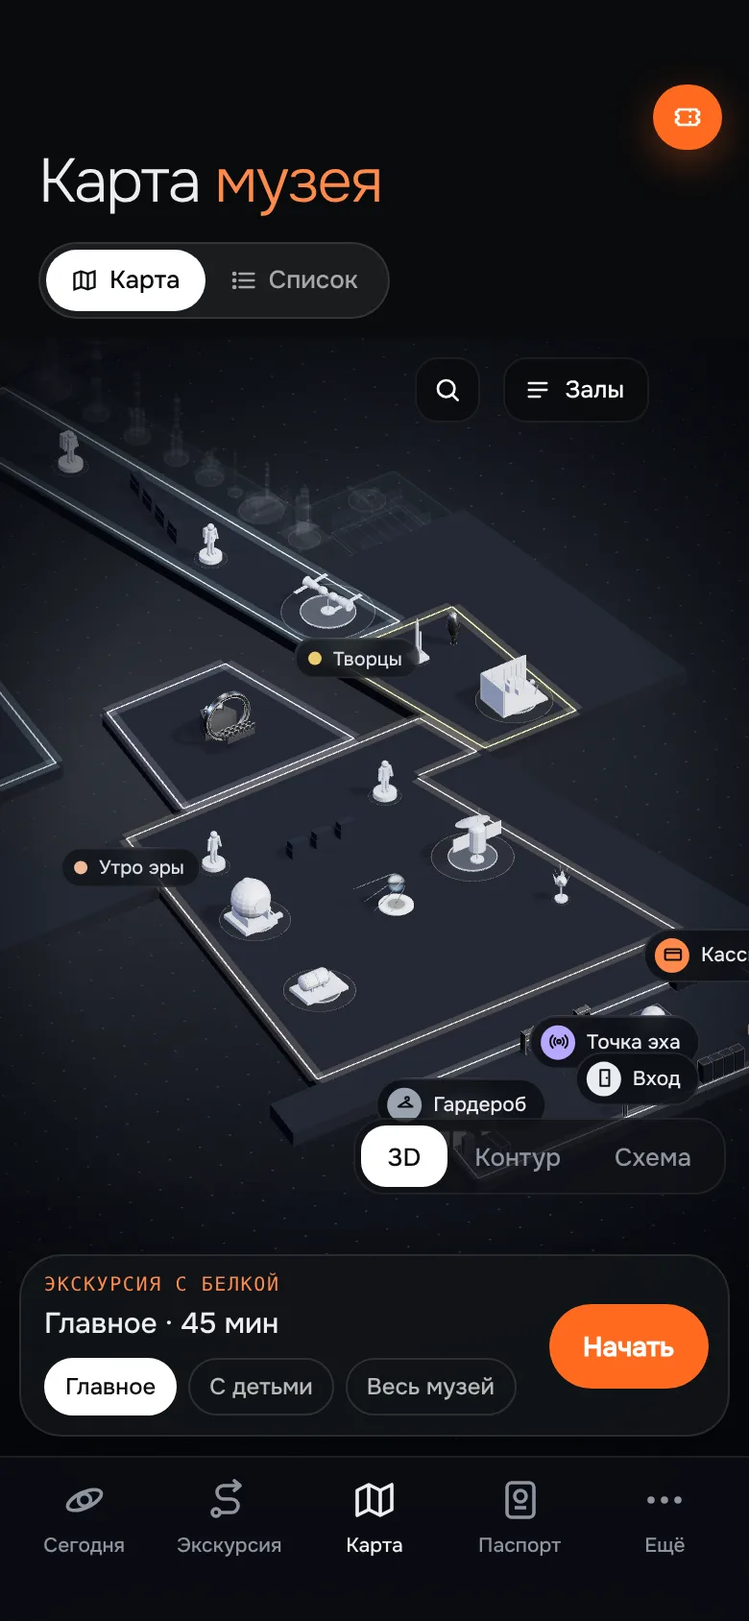
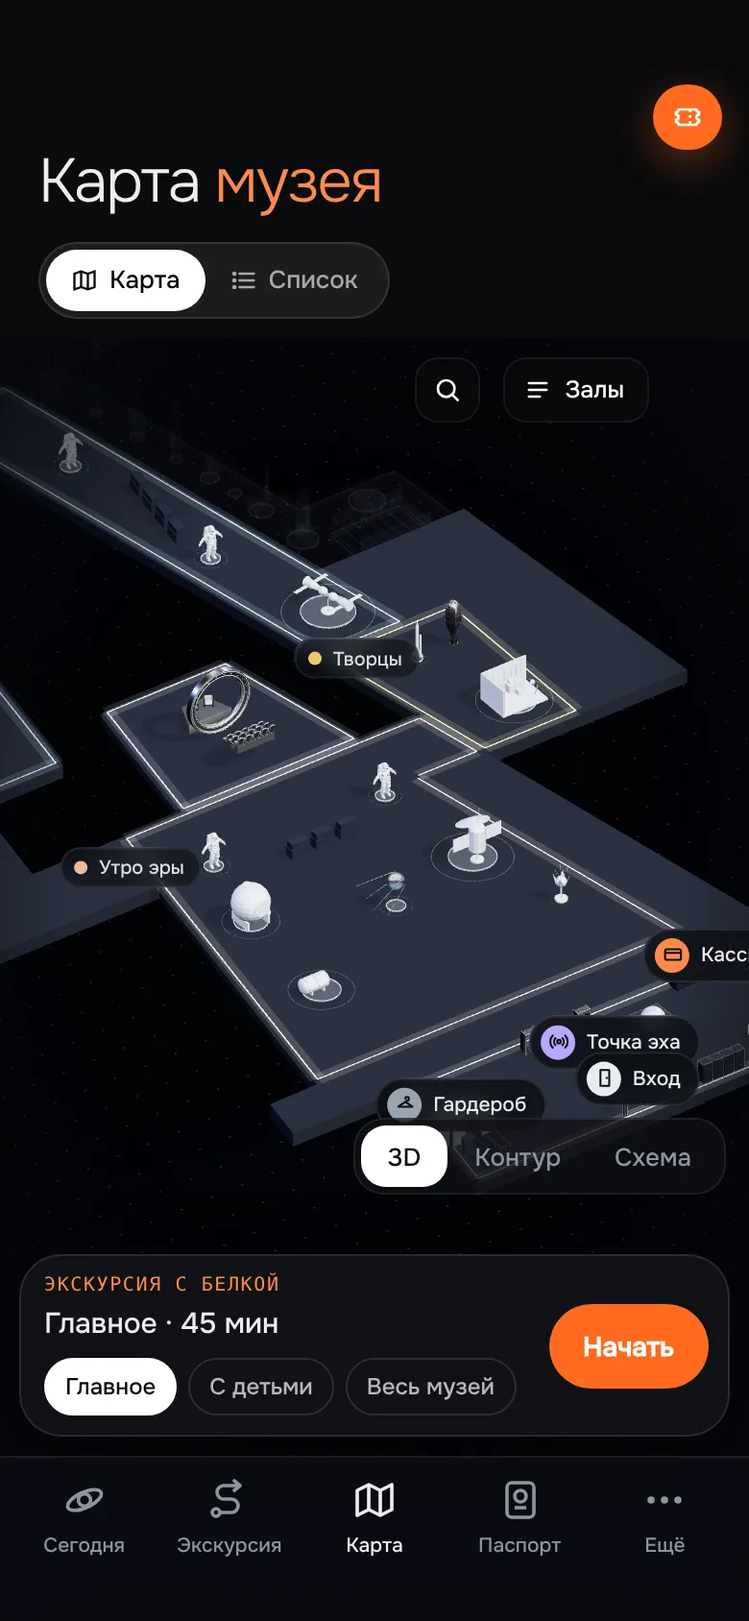
app v150: объёмная графитовая карта, чёрная пустота вокруг, голограмма во всех залах (и кинозал), без прямоугольных плит, аккуратная подставка Спутника, подпись кафе «Взлёт»; deck: слайд «От чертежа — к космосу», обновлены версии карты
Claude-Session: https://claude.ai/code/session_01YJBZo4ctwu5nXZDRpFLjgU

diff --git a/kosmo-museum/deck/app/index.html b/kosmo-museum/deck/app/index.html
@@ -9473,9 +9473,15 @@ if ($('#askCard')){ const mini = (window.mountDog3D || window.mountDog2D)($('#as
       const holder = new THREE.Group(); holder.add(mk(gpos, a * .18), mk(pos, a)); holder.userData.floorOf = n; holder.userData.top = top; glowHolders.push(holder); }); }
     // подставка под экспонатом: светящееся кольцо цвета зала
     const ringG = new THREE.RingGeometry(.986, 1, 128).rotateX(-Math.PI / 2) /* v116: тонкое кольцо вместо толстого */, discG = new THREE.CircleGeometry(1, 48).rotateX(-Math.PI / 2);
-    function pad(n, root){ const b = new THREE.Box3().setFromObject(n), c = b.getCenter(new THREE.Vector3()); let r0 = Math.max(b.max.x - b.min.x, b.max.z - b.min.z) * .55 + .5; const d = MEX.get(+n.name.slice(3)) || {}; const nid = +n.name.slice(3);
+    /* v150: прямоугольные плиты и диски-«блямбы» под экспонатами прячем на карте (в истории модель целиком) и опускаем экспонат на подставку */
+    const vBox = n => { const bb = new THREE.Box3(); n.updateMatrixWorld(true); n.traverse(o => { if (o.isMesh && o.visible && !o.userData.cSkip){ let v = true, p = o; while (p && p !== n){ if (!p.visible) v = false; p = p.parent; } if (v) bb.expandByObject(o); } }); return bb; };
+    function noBase(n){ const id = +n.name.slice(3); if ([13, 14, 19, 47, 49].includes(id)) return; const nb = vBox(n); if (nb.isEmpty()) return; const ns = nb.getSize(new THREE.Vector3()); let hit = 0;
+      n.traverse(o => { if (!o.isMesh || !o.visible || o.userData.cSkip) return; const bb = new THREE.Box3().setFromObject(o), z = bb.getSize(new THREE.Vector3());
+        if (z.y < ns.y * .2 && bb.min.y < nb.min.y + ns.y * .08 && z.x * z.z > ns.x * ns.z * (id === 10 ? .02 : .3) && z.y < Math.max(z.x, z.z) * .35){ o.visible = false; o.userData.mapHide = 1; hit = 1; } });
+      if (hit){ const b2 = vBox(n); if (!b2.isEmpty()){ n.position.y -= (b2.min.y - nb.min.y) / (n.parent ? n.parent.getWorldScale(new THREE.Vector3()).y : 1); n.updateMatrixWorld(true); } } }
+    function pad(n, root){ noBase(n); const b = vBox(n).isEmpty() ? new THREE.Box3().setFromObject(n) : vBox(n), c = b.getCenter(new THREE.Vector3()); let r0 = Math.max(b.max.x - b.min.x, b.max.z - b.min.z) * .55 + .5; const d = MEX.get(+n.name.slice(3)) || {}; const nid = +n.name.slice(3);
       { /* v143: у всех экспонатов — аккуратная низкая цилиндрическая подставка-«стекло» и тонкое кольцо вокруг */
-        const w = Math.min(Math.max(b.max.x - b.min.x, b.max.z - b.min.z), nid === 10 ? 1.2 : 99), pr = Math.max(.45, w * .42), h = .12;
+        const w = Math.min(Math.max(b.max.x - b.min.x, b.max.z - b.min.z), nid === 10 ? 1.9 : 99), pr = Math.max(.45, w * .42), h = .12;
         const ped = new THREE.Mesh(new THREE.CylinderGeometry(pr, pr, h, 64), new THREE.MeshBasicMaterial({ color:0x9FB4D2, transparent:true, opacity:.38, depthWrite:false }));
         const ed = new THREE.LineSegments(new THREE.EdgesGeometry(ped.geometry, 30), new THREE.LineBasicMaterial({ color:0xE2EBF7, transparent:true, opacity:.95 })); ed.userData.cSkip = 1; ped.add(ed);
         ped.position.set(c.x, b.min.y + h / 2, c.z); ped.userData.floor = n.userData.floor; ped.userData.cSkip = 1; ped.traverse(o => o.raycast = () => {}); root.add(ped);
@@ -9512,7 +9518,8 @@ if ($('#askCard')){ const mini = (window.mountDog3D || window.mountDog2D)($('#as
     const floorOfId = (id) => nodes[id]?.userData.floor || 'all';
     const labels = [], SHORT = { utro:'Утро эры', tvortsy:'Творцы', dom:'Дом на орбите', luna:'Луна и планеты', mezhdu:'Сотрудничество', chelovechestvu:'Человечеству', park:'Космический парк', vest:'Вход · кассы' };
     function hallLabels(){
-      for (const [k, b] of Object.entries(zones)){ const H = HALLS[k]; if (!H || k === 'kino') continue; const el = document.createElement('div'); el.className = 'm3lab';
+      const CAFE = new THREE.Box3(new THREE.Vector3(17.8, 1.3, -62.4), new THREE.Vector3(24.2, 3.3, -58.6)); /* v150: кафе «Взлёт» — подпись на карте */
+      for (const [k, b] of Object.entries(zones).concat([['cafe', CAFE]])){ const H = k === 'cafe' ? { color:'#FFB27A', name:'Кафе «Взлёт»' } : HALLS[k]; if (!H || k === 'kino') continue; const el = document.createElement('div'); el.className = 'm3lab';
         el.innerHTML = `<i style="background:${H.color}"></i>${SHORT[k] || H.name}`; el.addEventListener('click', () => flyBox(b, .1)); $('#m3pins').appendChild(el);
         const c = b.getCenter(new THREE.Vector3()); let p = null, best = 1e9; for (const x of [b.min.x, b.max.x]) for (const z of [b.min.z, b.max.z]){ const q = new THREE.Vector3(x, b.max.y + .5, z), y = q.clone().project(cam).y * -1; if (y < best){ best = y; p = q; } } p.lerp(new THREE.Vector3(c.x, b.max.y + .5, c.z), .22); labels.push({ p, el, k }); } /* v109: подпись — у дальнего угла зала */
     }
@@ -10957,9 +10964,9 @@ document.querySelectorAll('#fontsw button').forEach(b => { b.style.setProperty('
         n.add(fl); fl.position.copy(wp.applyMatrix4(inv)); const ws = new T.Vector3(); n.getWorldScale(ws); fl.scale.divide(ws);
         const mc = chromeMatcap(K); m.traverse(o => { if (o.isMesh){ o.castShadow = true; o.material = new T.MeshMatcapMaterial({ matcap:mc, color:o.material.metalness > .9 ? 0xffffff : 0xd8dce2 }); } });
         /* подиум как у соседних экспонатов: белый диск и тонкое светящееся кольцо — спутник парит над ним */
-        { const r0 = Math.min(sz.x, sz.z) * .26, pm = new T.MeshStandardMaterial({ color:0xeceae6, roughness:.55 }); const pd = new T.Mesh(new T.CylinderGeometry(r0, r0 * 1.02, .12, 64), pm); pd.position.set((b.min.x + b.max.x) / 2, b.min.y + .06, (b.min.z + b.max.z) / 2); pd.castShadow = pd.receiveShadow = true; K.scene.add(pd);
-          const gl = new T.Mesh(new T.RingGeometry(r0 * .55, r0 * .6, 96), new T.MeshBasicMaterial({ color:0x8CC4FF, transparent:true, opacity:.8, depthWrite:false })); gl.rotation.x = -Math.PI / 2; gl.position.set(pd.position.x, b.min.y + .13, pd.position.z); K.scene.add(gl);
-          const sh = new T.Mesh(new T.CircleGeometry(r0 * .5, 48), new T.MeshBasicMaterial({ color:0x000000, transparent:true, opacity:.28, depthWrite:false })); sh.rotation.x = -Math.PI / 2; sh.position.set(pd.position.x, b.min.y + .125, pd.position.z); K.scene.add(sh); n.userData.podium = [pd, gl, sh]; }
+        { const r0 = Math.min(sz.x, sz.z) * .26, pm = new T.MeshStandardMaterial({ color:0xeceae6, roughness:.55 }); const pd = new T.Mesh(new T.CylinderGeometry(r0, r0 * 1.02, .12, 64), pm); pd.position.set((b.min.x + b.max.x) / 2, b.min.y + .06, (b.min.z + b.max.z) / 2); pd.castShadow = pd.receiveShadow = true; /* v150: старый белый диск убран — подставка как у всех */
+          const gl = new T.Mesh(new T.RingGeometry(r0 * .55, r0 * .6, 96), new T.MeshBasicMaterial({ color:0x8CC4FF, transparent:true, opacity:.8, depthWrite:false })); gl.rotation.x = -Math.PI / 2; gl.position.set(pd.position.x, b.min.y + .13, pd.position.z);
+          const sh = new T.Mesh(new T.CircleGeometry(r0 * .5, 48), new T.MeshBasicMaterial({ color:0x000000, transparent:true, opacity:.28, depthWrite:false })); sh.rotation.x = -Math.PI / 2; sh.position.set(pd.position.x, b.min.y + .125, pd.position.z); n.userData.podium = [pd, gl, sh]; }
         fl.userData.axis = 1; posed(K, n, fl);
         const y = fl.position.y, t0 = performance.now(); fl.userData.float = 1; (function bob(now){ fl.position.y = y + Math.sin((now - t0) / 1100) * .9 / ws.y * .18; requestAnimationFrame(bob); })(t0);
         n.userData.floatModel = fl; }); } };
@@ -11150,7 +11157,7 @@ document.querySelectorAll('#fontsw button').forEach(b => { b.style.setProperty('
     const holder = new T.Group(), spin = new T.Group(); holder.add(spin); sc.add(holder);
     const fit = o => { const bb = new T.Box3().setFromObject(o), sz = bb.getSize(new T.Vector3()), cc = bb.getCenter(new T.Vector3()); o.position.sub(cc); const g = new T.Group(); g.add(o); g.scale.setScalar(1 / Math.max(sz.x, sz.y, sz.z)); return g; };
     let hsU = null, BN = null; const put = o => { while (spin.children.length) spin.remove(spin.children[0]); BN = null; o.updateMatrixWorld(true); o.traverse(m => { if (m.isSkinnedMesh){ m.skeleton.update(); m.computeBoundingBox(); m.frustumCulled = false; } if (m.isBone){ BN = BN || {}; BN[m.name.replace(/^mixamorig:?/, '').replace(/_\d+$/, '')] = { b:m, q:m.quaternion.clone(), s:m.scale.x }; } }); /* v127: скинned — честный bbox и кости для поз */ hsU = story ? null : addHS(T, o, id, hero); o.traverse(m => { if (m.isMesh && m.material){ m.material = m.material.clone(); m.material.envMap = null; m.material.envMapIntensity = 1.3; if (m.material.metalness > .9){ m.material.color.setRGB(.95, .95, .96); m.material.roughness = Math.min(m.material.roughness, .12); } } }); spin.add(fit(o)); if (story && story.center) o.position.set(0, 0, 0); /* v123: в истории центр — шар */ };
-    const cl = obj.clone(true); cl.position.set(0, 0, 0); cl.rotation.set(0, 0, 0); if (obj === n) cl.scale.set(1, 1, 1); cl.traverse(o => { const E = window.__EXO; if (E && o.isMesh && E.get(o.material)) o.material = E.get(o.material); if (o.isLineSegments && o.userData.cSkip) o.visible = false; if (o.isMesh && o.material && o.material.isMeshMatcapMaterial) o.material = new T.MeshStandardMaterial({ color:0xf2f4f7, metalness:1, roughness:.12 }); }); put(cl); /* v142: в истории — настоящие материалы, а не «голограмма»/«серебро» с карты */
+    const cl = obj.clone(true); cl.position.set(0, 0, 0); cl.rotation.set(0, 0, 0); if (obj === n) cl.scale.set(1, 1, 1); cl.traverse(o => { if (o.userData.mapHide) o.visible = true; const E = window.__EXO; if (E && o.isMesh && E.get(o.material)) o.material = E.get(o.material); if (o.isLineSegments && o.userData.cSkip) o.visible = false; if (o.isMesh && o.material && o.material.isMeshMatcapMaterial) o.material = new T.MeshStandardMaterial({ color:0xf2f4f7, metalness:1, roughness:.12 }); }); put(cl); /* v142: в истории — настоящие материалы, а не «голограмма»/«серебро» с карты */
     if (GLB.has(id) && !fm){ __ldJ(K, `models/${(STORYCFG[id] && STORYCFG[id].glb) || id}.json`, g => { if (id === 11) g.scene.traverse(o => { if (o.isMesh && /K_(white|tan|cream|brown)/.test(o.material && o.material.name || '')) o.visible = false; }); /* v119: без собак у контейнера */ if (id === 11 && window.__dogsPose){ window.__dogsPose(T, g.scene).then(() => { if (cur === me) put(g.scene); }); return; } if (cur === me) put(g.scene); }); }
     obj.updateMatrixWorld(true); const qCam = K.cam.getWorldQuaternion(new T.Quaternion()); const q0 = qCam.clone().invert().multiply(obj.getWorldQuaternion(new T.Quaternion()));
     const wAt = (sx, sy, W, H) => { const a = W / H; return new T.Vector3(((sx / W) * 2 - 1) * TAN * CZ * a, (1 - (sy / H) * 2) * TAN * CZ, 0); };
@@ -11918,7 +11925,8 @@ canvas.exfly{display:block}
     };
     if (!K.scene.environment && K.r){ try { import('three/addons/environments/RoomEnvironment.js').catch(()=>{}); } catch(_){} }
     const hallOf = id => { const e = (window.M_EX || []).find(x => x[0] === +id); return e ? e[3] : ''; };
-    for (const [id, n] of Object.entries(K.nodes)) { const kd = typeof kind === 'object' ? (kind[hallOf(id)] || kind['*'] || 'orig') : kind; n.traverse(o => { if (!o.isMesh || o.userData.cSkip || o.userData.exK === kd) return; o.userData.exK = kd;
+    const OLDG = []; K.root.traverse(o => { if (/^OLD_/.test(o.name)) OLDG.push(['old_' + o.name, o]); }); /* v150: кинозал, кафе, гардероб, рамки — в том же стиле */
+    for (const [id, n] of Object.entries(K.nodes).concat(OLDG)) { const kd = typeof kind === 'object' ? (kind[hallOf(id)] || kind['*'] || 'orig') : kind; n.traverse(o => { if (!o.isMesh || (o.userData.cSkip && !o.userData.oldM) || o.userData.exK === kd) return; o.userData.exK = kd;
       if (o.userData.exE){ o.userData.exE.visible = kd === 'holo'; }
       const EXO = window.__EXO || (window.__EXO = new WeakMap()); const o0 = EXO.get(o.material) || o.material;
       if (kd === 'orig' || !M[kd]){ o.material = o.userData.mat0 = o0; return; }
@@ -11926,7 +11934,7 @@ canvas.exfly{display:block}
       if (kd === 'holo' && !o.userData.exE){ const e = new T.LineSegments(new T.EdgesGeometry(o.geometry, 30), new T.LineBasicMaterial({ color:0xBFE0FF, transparent:true, opacity:.8 })); e.raycast = () => {}; e.userData.cSkip = 1; o.add(e); o.userData.exE = e; } }); }
   };
   /* сравнение: зал «Утро космической эры» — голограмма, остальные — серебро */
-  window.__exCmp = { utro:'holo', '*':'silver' }; (function w(){ if (!window.__m3k) return setTimeout(w, 300); [0, 1500, 4000, 8000].forEach(t => setTimeout(() => m3exMat(window.__exCmp), t)); })();
+  window.__exCmp = { '*':'holo' }; /* v150: голограмма во всех залах */ (function w(){ if (!window.__m3k) return setTimeout(w, 300); [0, 1500, 4000, 8000].forEach(t => setTimeout(() => m3exMat(window.__exCmp), t)); })();
 })();
 </script>
 
@@ -11967,7 +11975,7 @@ canvas.exfly{display:block}
     { f:'cafe', am:'AM_cafe001', k:2.6, ry:Math.PI },
     { f:'entrance', k:2.6, split:true },
     { f:'meteor', at:[-16.5, .3, -33], k:3, ry:0 } ];
-  const prep = (m, name, floor) => { m.traverse(x => { if (x.isMesh){ x.castShadow = x.receiveShadow = true; x.userData.cSkip = 1; x.raycast = () => {}; if (x.material && x.material.envMapIntensity !== undefined) x.material.envMapIntensity = 1.2; } }); m.userData.floor = floor; m.name = name; };
+  const prep = (m, name, floor) => { m.traverse(x => { if (x.isMesh){ x.castShadow = x.receiveShadow = true; x.userData.cSkip = 1; x.userData.oldM = 1; x.raycast = () => {}; if (x.material && x.material.envMapIntensity !== undefined) x.material.envMapIntensity = 1.2; } }); m.userData.floor = floor; m.name = name; };
   const place = (T, m, k, ry, tx, ty, tz) => { const w = new T.Group(); w.add(m); w.rotation.y = ry; w.scale.setScalar(k); w.updateMatrixWorld(true); const b = new T.Box3().setFromObject(w), c = b.getCenter(new T.Vector3()); w.position.set(tx - c.x, ty - b.min.y, tz - c.z); return w; };
   (function w(){ const K = window.__m3k; if (!K || !window.__ldJ || !K.GLTFLoader || !K.scene.getObjectByName('vestPOI')){ setTimeout(w, 500); return; } const T = K.THREE;
     OLD.forEach(o => { __ldJ(K, 'models/old_' + o.f + '.json', g => { const sc = g.scene; sc.updateMatrixWorld(true);
@@ -12036,6 +12044,35 @@ canvas.exfly{display:block}
     put(s, M * .13, bb.min.x + sz.x * .2, bb.max.z - sz.z * .17, -Math.PI / 2 - .5);
     root.userData.dogs = 1; }).catch(e => console.warn('dogs', e));
 })();
+</script>
+
+
+
+<script>
+/* v150: «туман войны» — вокруг музея чёрная пустота, пол тёмно-синий и к краям уходит в темноту */
+(() => { const run = () => { const K = window.__m3k; if (!K || !K.scene) return setTimeout(run, 400); const T = K.THREE;
+  K.scene.background = new T.Color(0x000000); try { K.r.setClearColor(0x000000, 1); const w = document.getElementById('m3wrap'); if (w) w.style.background = '#000'; K.r.domElement.style.background = '#000'; } catch(e){}
+  const cv = document.createElement('canvas'); cv.width = cv.height = 512; const x = cv.getContext('2d'); const g = x.createRadialGradient(256, 256, 0, 256, 256, 256);
+  g.addColorStop(0, '#101219'); g.addColorStop(.18, '#090a0e'); g.addColorStop(.42, '#020306'); g.addColorStop(1, '#000'); x.fillStyle = g; x.fillRect(0, 0, 512, 512);
+  const tx = new T.CanvasTexture(cv); tx.colorSpace = T.SRGBColorSpace; let first = true;
+  const big = []; K.scene.traverse(o => { if (o.isMesh && o.geometry && !o.geometry.boundingBox) o.geometry.computeBoundingBox(); if (o.isMesh && o.material && o.material.map && o.geometry.boundingBox){ const z = o.geometry.boundingBox.getSize(new T.Vector3()).multiply(o.getWorldScale(new T.Vector3())); if (Math.max(z.x, z.y, z.z) > 200) big.push(o); } });
+  big.forEach(o => { if (first){ o.material = new T.MeshBasicMaterial({ map:tx, depthWrite:false }); first = false; } else o.visible = false; });
+  /* полы и залы — тёмный ультрамарин, к краям музея гаснут в черноту */
+  const rb = new T.Box3().setFromObject(K.root), rc = rb.getCenter(new T.Vector3()), R = Math.max(rb.max.x - rb.min.x, rb.max.z - rb.min.z) * .5;
+  const U = { uC:{ value:new T.Vector2(rc.x, rc.z) }, uR0:{ value:R * .62 }, uR1:{ value:R * 1.35 } };
+  const fog = m => { m.onBeforeCompile = sh => { Object.assign(sh.uniforms, U); sh.vertexShader = 'varying vec3 vWp;\n' + sh.vertexShader.replace('#include <begin_vertex>', '#include <begin_vertex>\n vWp = (modelMatrix * vec4(position, 1.)).xyz;');
+    sh.fragmentShader = 'varying vec3 vWp; uniform vec2 uC; uniform float uR0, uR1;\n' + sh.fragmentShader.replace('#include <dithering_fragment>', '#include <dithering_fragment>\n gl_FragColor.rgb *= 1. - smoothstep(uR0, uR1, length(vWp.xz - uC)) * .8;'); }; m.needsUpdate = true; };
+  /* v150: объём как на референсе — пол и стены освещены (тёмный ультрамарин), стены светлее по верху; голограмма экспонатов остаётся */
+  const SM = (c, r) => { const m = new T.MeshStandardMaterial({ color:c, roughness:r, metalness:.15, envMapIntensity:.6 }); fog(m); return m; };
+  const mZone = SM(0x1a1e27, .8), mFloor = SM(0x12151c, .82), mSide = SM(0x08090d, .7), mWallTop = SM(0x464d5c, .55), mWall = SM(0x171a22, .6); /* графит с холодным оттенком — решает объём, не цвет */
+  K.root.traverse(o => { if (!o.isMesh || !o.material || !o.material.isMeshBasicMaterial) return; const n = o.name; let m = null;
+    if (/^Zone_/.test(n)) m = mZone; else if (/^Floor_/.test(n)) m = /_2$/.test(n) ? mFloor : mSide; else if (/^Walls_/.test(n)) m = /_2$/.test(n) ? mWallTop : mWall;
+    if (m){ o.material = m; o.userData.mat0 = m; o.receiveShadow = true; } });
+  if (!K.scene.userData.v150L){ K.scene.userData.v150L = 1; K.scene.add(new T.HemisphereLight(0xc4cee6, 0x020305, .6)); const d = new T.DirectionalLight(0xd6e2ff, 1.5); d.position.set(rc.x - 60, 90, rc.z + 40); d.target.position.copy(new T.Vector3(rc.x, 0, rc.z)); K.scene.add(d, d.target); const f = new T.DirectionalLight(0x7c8cb8, .6); f.position.set(rc.x + 70, 30, rc.z - 50); K.scene.add(f); }
+  /* чёрные диски-«дыры» под экспонатами убираем — на ультрамарине нужны только стеклянная подставка и кольцо */
+  K.scene.traverse(o => { if (o.isMesh && o.material && o.material.isMeshBasicMaterial && !o.material.transparent && o.material.color.getHex() === 0x0b0d12 && o.geometry && o.geometry.type === 'CircleGeometry'){ o.visible = false; } });
+  document.querySelectorAll('.m3wrap canvas.stars, #m3wrap .stars').forEach(c => c.style.opacity = '.35'); };
+  setTimeout(run, 1200); })();
 </script>
 </body>
 </html>

diff --git a/kosmo-museum/deck/index.html b/kosmo-museum/deck/index.html
@@ -379,6 +379,12 @@ canvas.stars{position:fixed;inset:0;width:100vw;height:100vh;z-index:0;pointer-e
 /* механики возвращения */
 .chips{display:flex;flex-wrap:wrap;gap:10px;max-width:60ch;margin-top:8px}.chips span{padding:9px 16px;border-radius:999px;background:rgba(10,11,14,.55);border:1px solid rgba(255,255,255,.18);font-size:calc(1.05*var(--u));-webkit-backdrop-filter:blur(8px);backdrop-filter:blur(8px)}
 
+.ch:has(.phl)::after{display:none}
+.phl{flex:1;min-height:0;display:grid;grid-template-columns:repeat(3,1fr);gap:calc(2*var(--u));margin-top:calc(3*var(--u));width:100%;align-items:start}
+.phl figure{margin:0;display:flex;flex-direction:column;gap:calc(1.4*var(--u))}
+.phl img{width:88%;aspect-ratio:1;object-fit:cover;border-radius:calc(2.4*var(--u));outline:1px solid rgba(255,255,255,.1)}
+.phl figcaption{display:grid;gap:6px}.phl b{font:400 calc(1.7*var(--u)) var(--f)}.phl span{font-size:calc(1.1*var(--u));color:#B8B5AF;max-width:30ch;line-height:1.4}
+
 .ch:has(.mvv)>h2{margin-bottom:0!important}.ch:has(.mvv)::after{display:none}
 .mvv{flex:1;min-height:0;display:grid;grid-template-columns:repeat(4,1fr);gap:calc(1.6*var(--u));margin-top:calc(2*var(--u));width:100%}
 .mvv figure{margin:0;display:flex;flex-direction:column;min-height:0;align-items:flex-start}
@@ -511,6 +517,9 @@ canvas.stars{position:fixed;inset:0;width:100vw;height:100vh;z-index:0;pointer-e
 </section>
 <section class="ch" data-act="flow" data-cap="Карта приложения" data-wide="1">
 <div class="kick">Как устроено</div><h2>Сначала — <em>схема</em> всего приложения</h2><div class="flowimg"><img src="img/flow_map2.webp" alt="Карта приложения: экраны и переходы"></div>
+</section>
+<section class="ch" data-cap="Философия" data-wide="1">
+<div class="kick">Философия</div><h2>От чертежа —<br><em>к космосу</em></h2><div class="phl"><figure><img src="img/scr/sp3_scheme.webp" alt=""><figcaption><b>01 · Чертёж</b><span>Схема зала: линии, маршрут, подиумы. Так экспонат задумывал конструктор</span></figcaption></figure><figure><img src="img/scr/sp3_holo.webp" alt=""><figcaption><b>02 · Прототип</b><span>Голограмма на карте: объём без лишних деталей, видно, где он стоит</span></figcaption></figure><figure><img src="img/scr/sp3_story.webp" alt=""><figcaption><b>03 · Космос</b><span>История экспоната: настоящий материал, свет и полёт</span></figcaption></figure></div>
 </section>
 <section class="ch" data-cap="Путь посетителя" data-wide="1">
 <div class="kick">Пройдём путь посетителя</div><h2>До визита, в музее <em>и после</em></h2><div class="jw"><div class="jc "><div class="jh"><i>01</i><b>До визита</b></div><div class="jp"><img src="img/scr/onboarding.webp" alt=""></div><div class="jr"><span>Сайт</span><p>Что посмотреть, билет в 4 шага</p></div><div class="jr ap"><span>Приложение</span><p>Маршрут на 45 минут, 3D-облёты</p></div></div><div class="jc "><div class="jh"><i>02</i><b>В дороге</b></div><div class="jp"><img src="img/scr/tickets.webp" alt=""></div><div class="jr"><span>Сайт</span><p>Часы работы, как добраться</p></div><div class="jr ap"><span>Приложение</span><p>Билет в Wallet, напоминание</p></div></div><div class="jc on"><div class="jh"><i>03</i><b>В музее</b></div><div class="jp"><img src="img/scr/tour.webp" alt=""></div><div class="jr"><span>Сайт</span><p>QR на кассе → приложение</p></div><div class="jr ap"><span>Приложение</span><p>Карта, экскурсия, досье, печати</p></div></div><div class="jc "><div class="jh"><i>04</i><b>После</b></div><div class="jp"><img src="img/scr/pass.webp" alt=""></div><div class="jr"><span>Сайт</span><p>Факт дня, новые выставки</p></div><div class="jr ap"><span>Приложение</span><p>Паспорт, сезоны, коллаборации</p></div></div></div>
